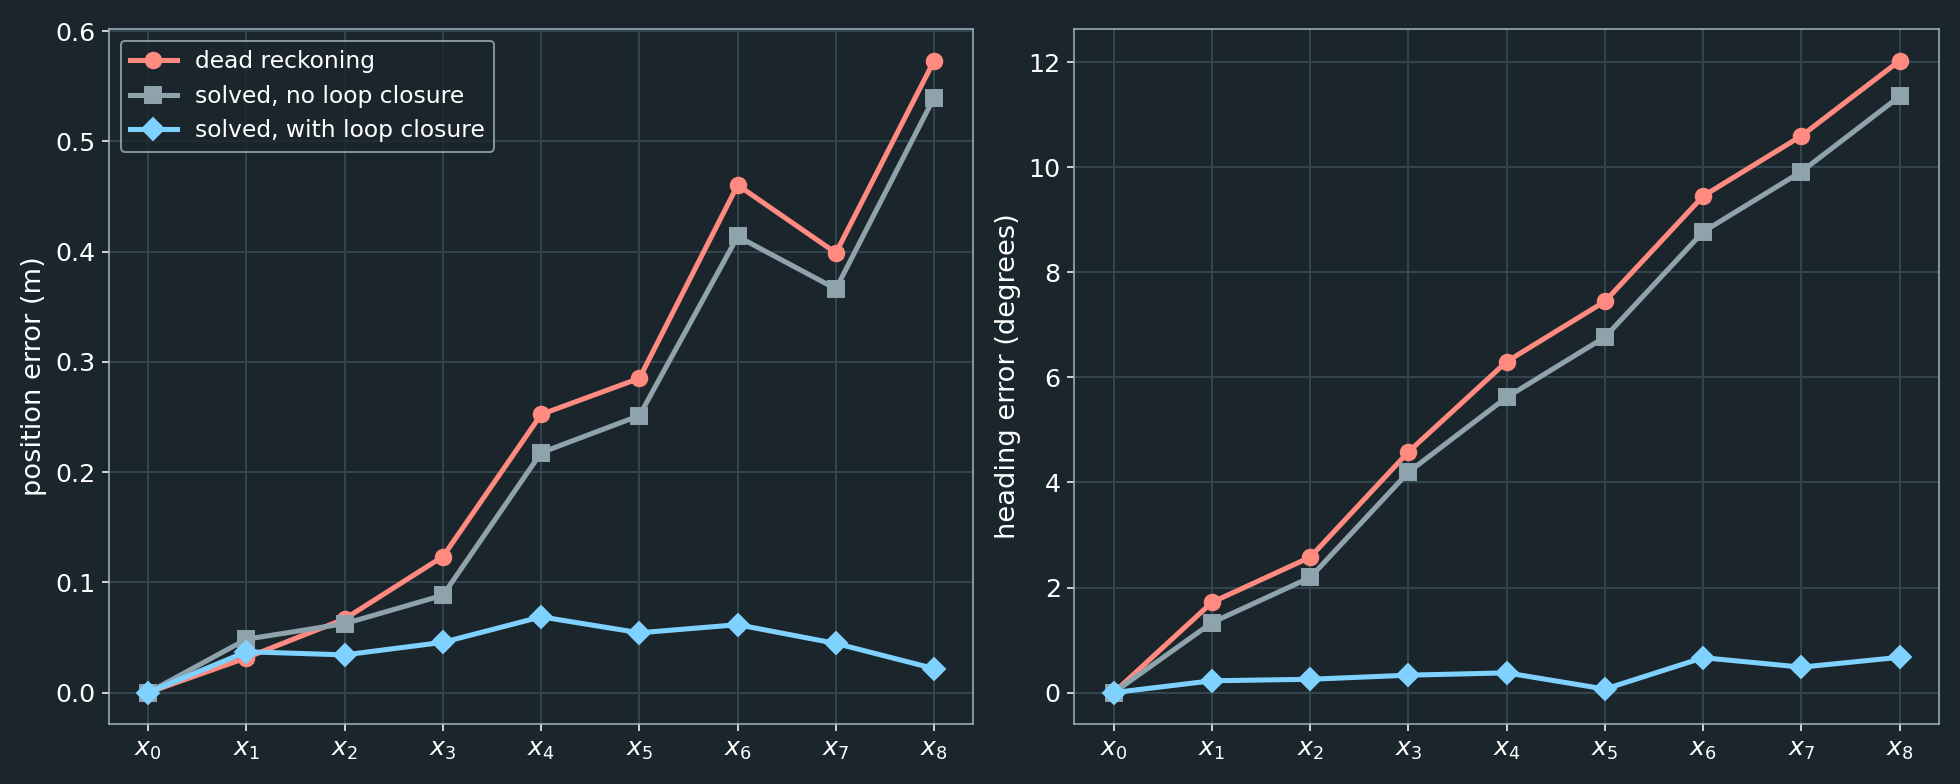
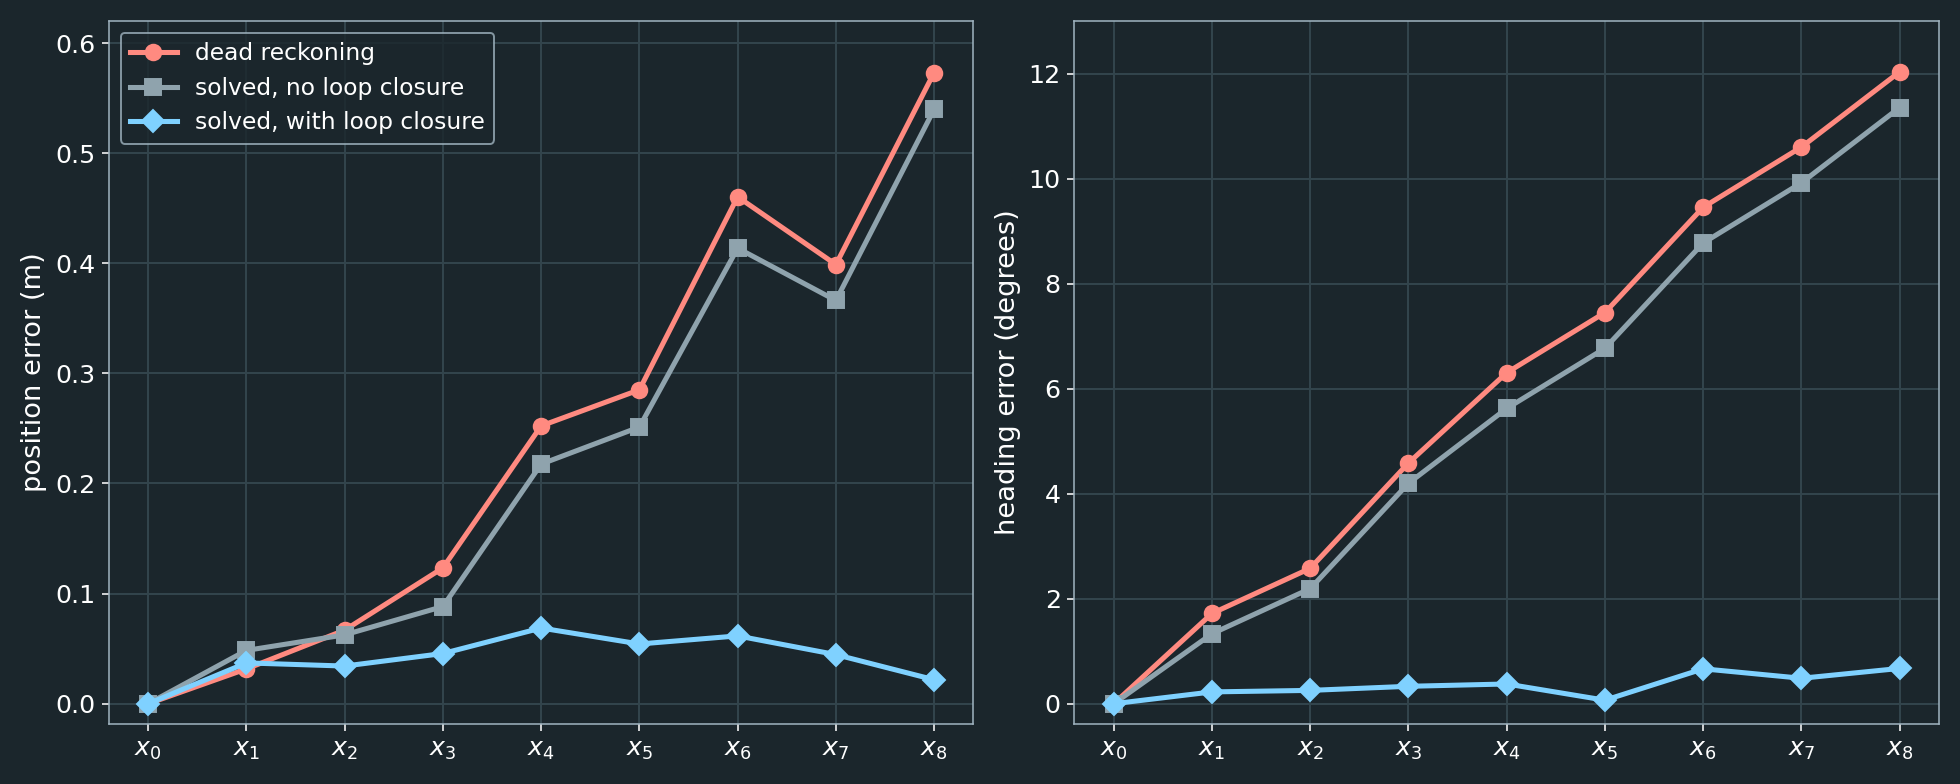
Refactor code structure for improved readability and maintainability

Changed region(s): [[0.0, 0.0306, 0.9959, 0.9184], [0.5291, 0.0612, 0.5602, 0.1224], [0.5291, 0.2143, 0.5602, 0.2449]]

diff --git a/Graph_SLAM/generate_loop_and_sparse_figures.py b/Graph_SLAM/generate_loop_and_sparse_figures.py
@@ -274,15 +274,17 @@ def make_system_figure(indices, prev_indices, mu0, name, highlight=None):
     save(fig, name)
 
 
-def make_error_chart(mu0, solved_local, solved_pose):
+def make_error_chart(series, filename):
+    """Position and heading error against pose for each (label, color, estimate, marker). The y ranges are
+    fixed so that the two error charts in the loop-closure document can be compared directly."""
     fig, (a, b) = plt.subplots(1, 2, figsize=(14, 5.6), facecolor=BG)
-    series = [("dead reckoning", CONFLICT, mu0, "o"), ("solved, no loop closure", TRUTH, solved_local, "s"),
-              ("solved, with loop closure", ODOM, solved_pose, "D")]
-    for ax, which, ylabel, scale in [(a, 0, "position error (m)", 1.0), (b, 1, "heading error (degrees)", 180 / np.pi)]:
+    for ax, which, ylabel, scale, top in [(a, 0, "position error (m)", 1.0, 0.62),
+                                          (b, 1, "heading error (degrees)", 180 / np.pi, 13.0)]:
         ax.set_facecolor(BG)
         for label, color, mu, mk in series:
             err = M.pose_errors(mu)[which] * scale
             ax.plot(range(M.N_POSES), err, color=color, marker=mk, linewidth=2.6, markersize=8, label=label)
+        ax.set_ylim(-0.03 * top, top)
         ax.set_xticks(range(M.N_POSES))
         ax.set_xticklabels([rf"$x_{i}$" for i in range(M.N_POSES)], color=TEXT, fontsize=13)
         ax.tick_params(colors=TEXT, labelsize=13)
@@ -292,7 +294,7 @@ def make_error_chart(mu0, solved_local, solved_pose):
             spine.set_color(GRID)
     a.legend(facecolor=BG, edgecolor=GRID, labelcolor=TEXT, fontsize=12, loc="upper left")
     fig.tight_layout()
-    save(fig, "loop_error.png")
+    save(fig, filename)
 
 
 # ------------------------------------------------------------------ sparse-solver figures
@@ -514,7 +516,12 @@ def main():
     make_closure_map(mu0)
     make_solved_map(mu0, solved_pose)
     make_landmark_closure_map(mu0)
-    make_error_chart(mu0, solved_local, solved_pose)
+    solved_landmark = M.solve(mu0, M.WITH_LANDMARK_CLOSURE)[-1]
+    make_error_chart([("dead reckoning", CONFLICT, mu0, "o"), ("solved, no loop closure", TRUTH, solved_local, "s"),
+                      ("solved, with loop closure", ODOM, solved_pose, "D")], "loop_error.png")
+    make_error_chart([("dead reckoning", CONFLICT, mu0, "o"),
+                      ("solved, $x_8$ re-observes $L_0$", OBS, solved_landmark, "^"),
+                      ("solved, place-recognition closure", ODOM, solved_pose, "D")], "loop_error_landmark.png")
     make_system_figure(M.LOCAL, [0], mu0, "loop_system_local.png")
     make_system_figure(M.WITH_POSE_CLOSURE, M.LOCAL, mu0, "loop_system_closure.png", highlight=M.POSE_CLOSURE)
 
@@ -540,6 +547,8 @@ def main():
     assert max(np.linalg.norm(solved_local[M.pose_slice(i)][:2] - mu0[M.pose_slice(i)][:2]) for i in range(9)) < 0.05
     solved_landmark = M.solve(mu0, M.WITH_LANDMARK_CLOSURE)[-1]
     assert abs(M.pose_errors(solved_landmark)[0][8] - 0.51) < 0.005
+    assert list(np.round(M.pose_errors(solved_landmark)[0], 2)) == [0, 0.05, 0.06, 0.09, 0.24, 0.29, 0.46, 0.39, 0.51]
+    assert M.pose_errors(mu0)[0].max() < 0.62 and np.degrees(M.pose_errors(mu0)[1]).max() < 13.0
     assert len(M.solve(mu0, M.WITH_POSE_CLOSURE)) - 1 == 6
     assert n_new_blocks == 4, n_new_blocks
     om_local, _ = M.build_system(M.LOCAL, mu0)

diff --git a/Graph_SLAM/graphslam_loop_closure.md b/Graph_SLAM/graphslam_loop_closure.md
@@ -201,6 +201,12 @@ This is also a loop closure, and it adds edges between $\mathbf x_8$ and a landm
 | Solved with the place-recognition closure | 0.02 |
 | Solved after re-observing $L_0$ | 0.51 |
 
+Here is the error at every pose, in the same format and on the same axes as the chart in Step 3. The place-recognition closure from before is repeated in blue for comparison:
+
+![Two charts of error against pose, using the same axes as the earlier chart. For dead reckoning and for the solution where x8 re-observes L0, position and heading error both grow steadily along the path, and the two curves are close together, with the landmark closure only slightly lower. With the place-recognition closure, both errors stay small at every pose.](images/loop_error_landmark.png)
+
+The landmark closure only trims the error slightly, and the improvement is visible at every pose: the heading error at $\mathbf x_8$ falls from $12.0^\circ$ to $11.1^\circ$, compared with $0.7^\circ$ for the place-recognition closure. The correction is still spread along the trajectory, as it was before. There is simply very little correction to spread.
+
 The reason is that one landmark observation is only **two** equations, while a pose has **three** unknowns $(x,\ y,\ \theta)$. It cannot pin down the pose by itself. Any pose on the circle around the landmark, with a matching heading, sees the landmark in the same place in its own frame:
 
 ![The landmark L0 with a circle around it passing through the true position of x8 and the dead-reckoned position of x8. Both poses are on the circle, and both see L0 at nearly the same distance and bearing.](images/loop_landmark_closure.png)
